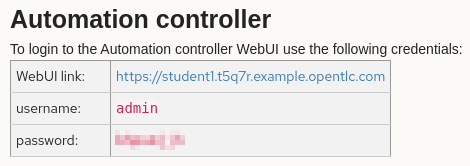
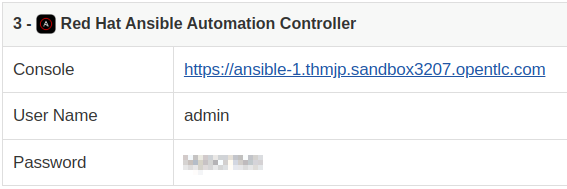
Updates to 1.1-setup

diff --git a/exercises/ansible_auto_satellite/3-convert2rhel/1.1-setup/README.md b/exercises/ansible_auto_satellite/3-convert2rhel/1.1-setup/README.md
@@ -11,7 +11,7 @@
     - [Step 2 - Open a Terminal Session](#step-2---open-a-terminal-session)
     - [Step 3 - Access the AAP Web UI](#step-3---access-the-aap-web-ui)
     - [Step 4 - Access the Satellite Web UI](#step-4---access-the-satellite-web-ui)
-    - [Step 5 - Access the CentOS Web Console](#step-5---access-the-centos-web-console)
+    - [Step 5 - Access the RHEL Web Console](#step-5---access-the-centos-web-console)
     - [Step 6 - Challenge Labs](#step-6---challenge-labs)
   - [Conclusion](#conclusion)
 
@@ -42,7 +42,7 @@ The workshop is provisioned with a pre-configured lab environment. You will have
 
 We will use Visual Studio Code (VS Code) as it provides a convenient and intuitive way to use a web browser to edit files and access terminal sessions. If you are a command line hero, direct SSH access is available if VS Code is not to your liking. There is a short YouTube video to explain if you need additional clarity: <a href="https://youtu.be/Y_Gx4ZBfcuk">Ansible Workshops - Accessing your workbench environment</a>.
 
-- You can open VS Code in your web browser using the "WebUI" link under "VS Code access" on the workshop landing page. The password is provided below the link. For example:
+- You can open VS Code in your web browser using the "Console URL" link under "Visual Studio Code" on the workshop landing page. The password is provided below the link. For example:
 
   ![Example link to VS Code WebUI](images/vscode_link.png)
 
@@ -72,7 +72,7 @@ Terminal sessions provide access to the OS commands and utilities that will help
 
 The AAP Web UI is where we will go to submit and check the status of the Ansible playbook jobs we will use to automate the CentOS conversion workflow.
 
-- Let's open the AAP Web UI in a new web browser tab using the "WebUI" link under "Automation controller" on the workshop launch page. For example:
+- Let's open the AAP Web UI in a new web browser tab using the "Console" link under "Red Hat Ansible Automation Controller" on the workshop launch page. For example:
 
   ![Example link to AAP Web UI](images/aap_link.png)
 
@@ -94,19 +94,19 @@ The Satellite Web UI is where we will go to review the Lifecycle Environments, C
 
   ![Example Satellite Web UI dashboard](images/aap_console_example.svg)
 
-### Step 5 - Access the CentOS Web Console
+### Step 5 - Access the RHEL Web Console
 
-We will use the CentOS Web Console to review the results of the Leapp pre-upgrade reports we generate for our pet app servers.
+We will use the RHEL Web Console to review the results of the Convert2RHEL pre-conversion analysis reports we generate for our three-tier app servers.
 
-- Open a new web browser tab using the link under "CentOS Web Console" on the workshop launch page. For example:
+- Open a new web browser tab using the link under "RHEL Web Console" on the workshop launch page. For example:
 
-  ![Example link to CentOS Web Console](images/cockpit_link.png)
+  ![Example link to RHEL Web Console](images/cockpit_link.png)
 
-- Enter the username `student` and the password provided. This will bring you to a CentOS Web Console Overview page like the example below:
+- Enter the username `student` and the password provided. This will bring you to a RHEL Web Console Overview page like the example below:
 
-  ![Example CentOS Web Console](images/cockpit_example.svg)
+  ![Example RHEL Web Console](images/cockpit_example.png)
 
-- We will revisit the CentOS Web Console when we are ready to review our pre-upgrade reports in an upcoming exercise.
+- We will revisit the RHEL Web Console when we are ready to review our pre-conversion reports in an upcoming exercise.
 
 ### Step 6 - Challenge Labs
 
@@ -114,7 +114,7 @@ You will soon discover that many exercises in the workshop come with a "Challeng
 
 ## Conclusion
 
-In this exercise, we learned about the lab environment we will be using to continue through the workshop exercises. We verified that we are able to use VS Code in our web browser and from there we can open terminal sessions. We verified access to the AAP Web UI which will be the "self-service portal" we use to perform the next steps of the CentOS conversion automation workflow. We also made sure we are able to access the Satellite Web UI where we can review the repositories providing the packages for the CentOS conversion automation workflow, as well as the status of the hosts theselves. Finally, we connected to the CentOS Web Console where we will soon be reviewing pre-conversion analysis reports.
+In this exercise, we learned about the lab environment we will be using to continue through the workshop exercises. We verified that we are able to use VS Code in our web browser and from there we can open terminal sessions. We verified access to the AAP Web UI which will be the "self-service portal" we use to perform the next steps of the CentOS conversion automation workflow. We also made sure we are able to access the Satellite Web UI where we can review the repositories providing the packages for the CentOS conversion automation workflow, as well as the status of the hosts theselves. Finally, we connected to the RHEL Web Console where we will soon be reviewing pre-conversion analysis reports.
 
 Use the link below to move on the the next exercise.
 
